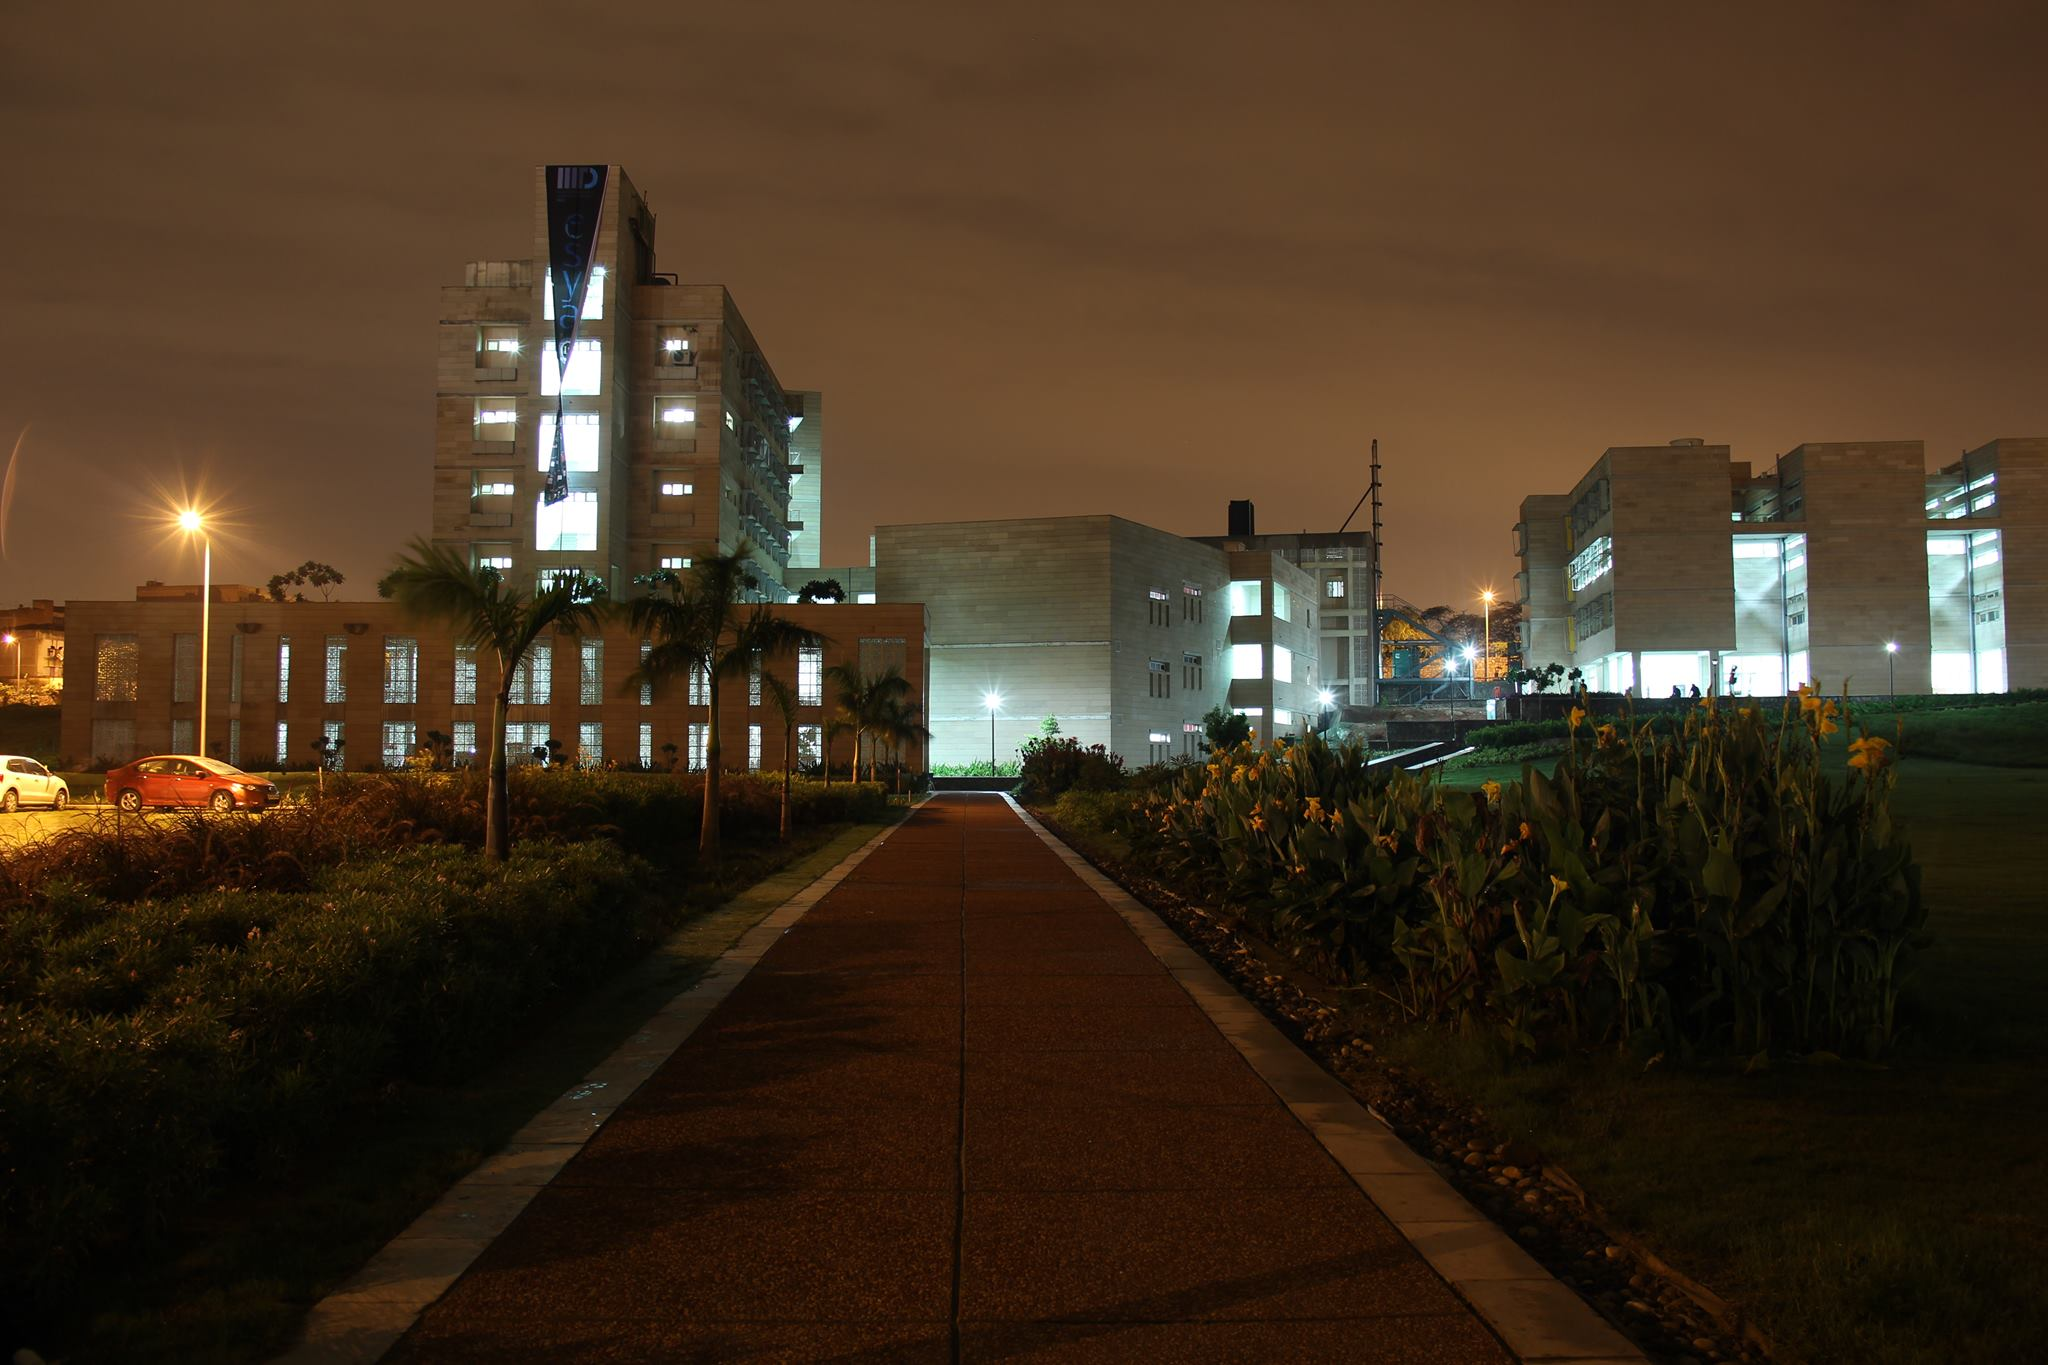
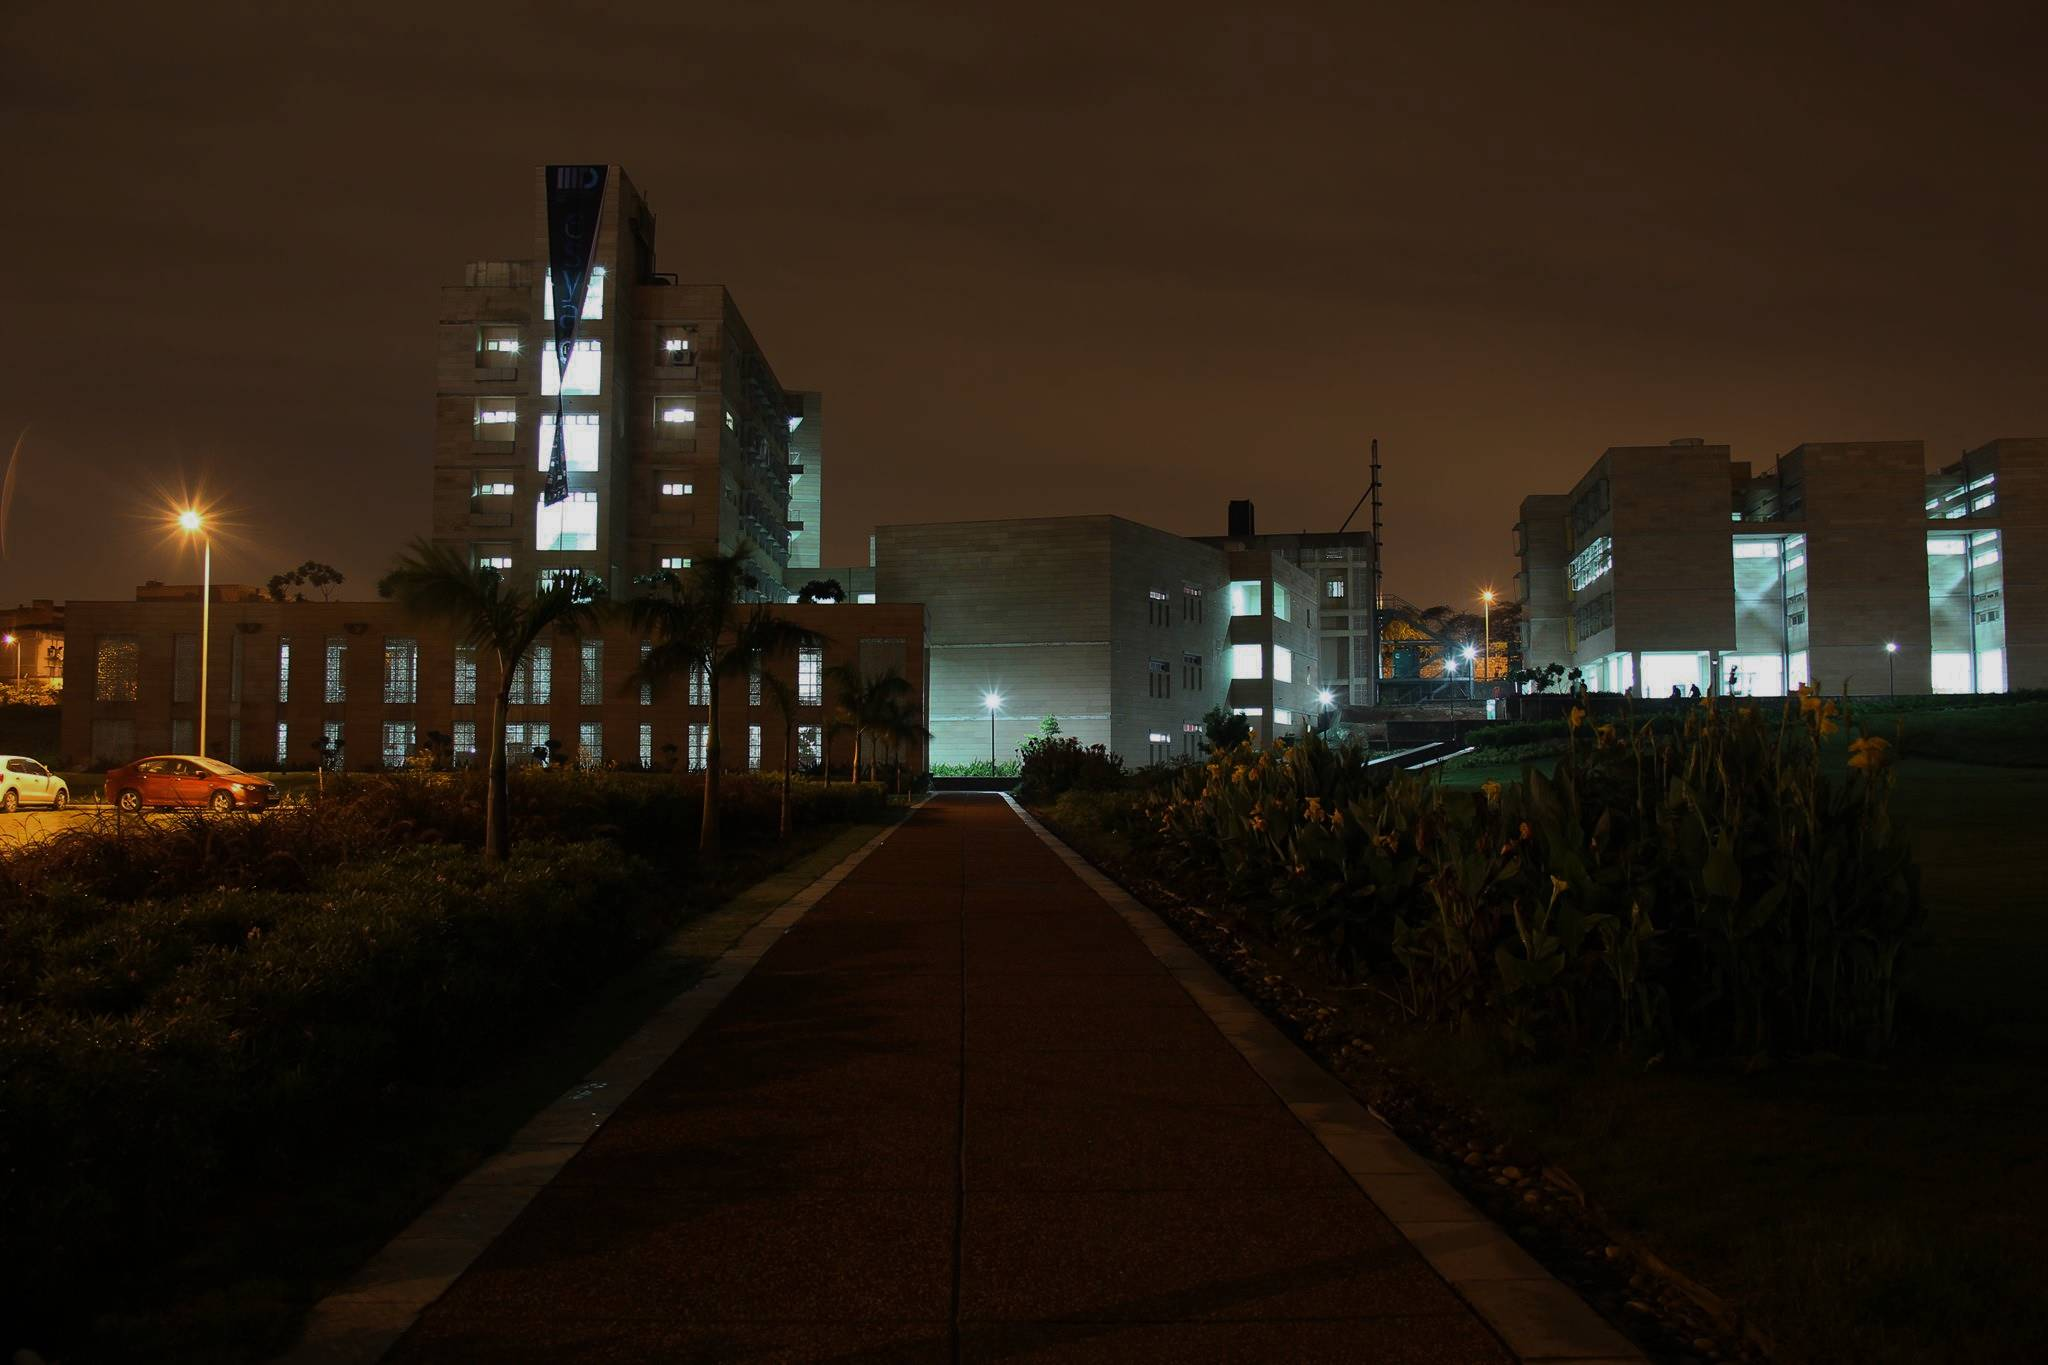
changes suggested

diff --git a/src/pages/Home.js b/src/pages/Home.js
@@ -46,7 +46,7 @@ const Home = () => {
             <AdCarousel />
 
             <ParallaxBanner
-                style={{ height: '400px' }}
+                style={{ height: '400px', paddingTop: '5vh' }}
                 layers={[
                     {
                         image: '/IIITD_building.jpg',
@@ -55,11 +55,9 @@ const Home = () => {
                 ]}
             >
                 <div className={size > 700 ? "aboutUsContainer" : "about"}>
-                    <div className='heading'>About Academics Department</div>
+                    <div className='heading'>About Academics Office</div>
                     <p className={size > 700 ? 'para' : 'paraSmall'}>
-                        IIIT-Delhi is a research-led institute with thriving degree programs at the UG & PG levels.
-                        The Academics celebrate the culture of learning by doing. The approach is always to encourage analytical precision with curiosity, playful imagination and searching for ways to solve real life problems in service to the society.
-                    </p>
+                        The Academic Office exists to help facilitate, initiate and co-ordinate the academic work of the Institute starting from admission, course registration, examination, and convocation; basically the teaching and assessment of students. It acts as the repository of grades and academic records of all students, both past and present. It provides administrative support to the Senate, which is the highest academic body of the Institute.</p>
                 </div>
             </ParallaxBanner>
 
@@ -126,9 +124,6 @@ const Home = () => {
                         image:
                             './IIITD_night.jpg',
                         speed: -30,
-                        props: {
-                            style: { filter: 'brightness(0.5)' }
-                        }
                     },
                 ]}
             >
@@ -210,7 +205,7 @@ const Home = () => {
                 <Parallax
                     className="Parallax-module__smallLinear--MqSo+"
                     translateX={[
-                        '-40%',
+                        '-20%',
                         '15%'
                     ]}
                     opacity={[
@@ -235,8 +230,8 @@ const Home = () => {
                 <Parallax
                     className="Parallax-module__smallLinear--MqSo+"
                     translateX={[
-                        '5%',
-                        '-5%'
+                        '0%',
+                        '0%'
                     ]}
                     opacity={[
                         0,
@@ -260,7 +255,7 @@ const Home = () => {
                 <Parallax
                     className="Parallax-module__smallLinear--MqSo+"
                     translateX={[
-                        '40%',
+                        '20%',
                         '-15%'
                     ]}
                     opacity={[

diff --git a/src/pages/Contact.js b/src/pages/Contact.js
@@ -24,6 +24,13 @@ const Contact = () => {
                         <input type="text" name="name" id="name" placeholder='Enter Your Name' />
                         <input type="text" name="email" id="email" placeholder="Enter Your Email" />
                         <input type="text" name="subject" id="subject" placeholder='Enter Subject' />
+                        <select name="dropdown" id="dropdown">
+                            <option value="">Select Program</option>
+                            <option name="others" id="others">Others</option>
+                            <option name="btech" id="btech">B.Tech</option>
+                            <option name="mtech" id="mtech">M.Tech</option>
+                            <option name="phd" id="phd">PhD</option>
+                        </select>
                         <textarea className='query'>
 
                         </textarea>

diff --git a/src/pages/Convocation.js b/src/pages/Convocation.js
@@ -11,7 +11,7 @@ const Convocation = () => {
                     className="Parallax-module__smallLinear--MqSo+"
                     translateX={[
                         '-40%',
-                        '25%'
+                        '18%'
                     ]}
                     opacity={[
                         0,
@@ -29,7 +29,7 @@ const Convocation = () => {
                     className="Parallax-module__smallLinear--MqSo+"
                     translateX={[
                         '40%',
-                        '-25%'
+                        '-18%'
                     ]}
                     opacity={[
                         0,

diff --git a/src/styles/contact.css b/src/styles/contact.css
@@ -51,6 +51,18 @@
     -ms-border-radius: 5px;
     -o-border-radius: 5px;
 }
+#dropdown{
+    margin-top: 2vh;
+    width: 30vw;
+    height: 5vh;
+    border-radius: 5px;
+    border: 1px solid #555555;
+    padding-left: 1vw;
+    -webkit-border-radius: 5px;
+    -moz-border-radius: 5px;
+    -ms-border-radius: 5px;
+    -o-border-radius: 5px;
+}
 #subject{
     width: 30vw;
     height: 5vh;

diff --git a/src/pages/ReportsStatistics.js b/src/pages/ReportsStatistics.js
@@ -6,7 +6,7 @@ const ReportsStatistics = () => {
     return (
         <div className='page'>
             <ParallaxBanner
-                style={{ height: '105vh' }}
+                style={{ height: '110vh' }}
                 layers={[
                     {
                         image:
